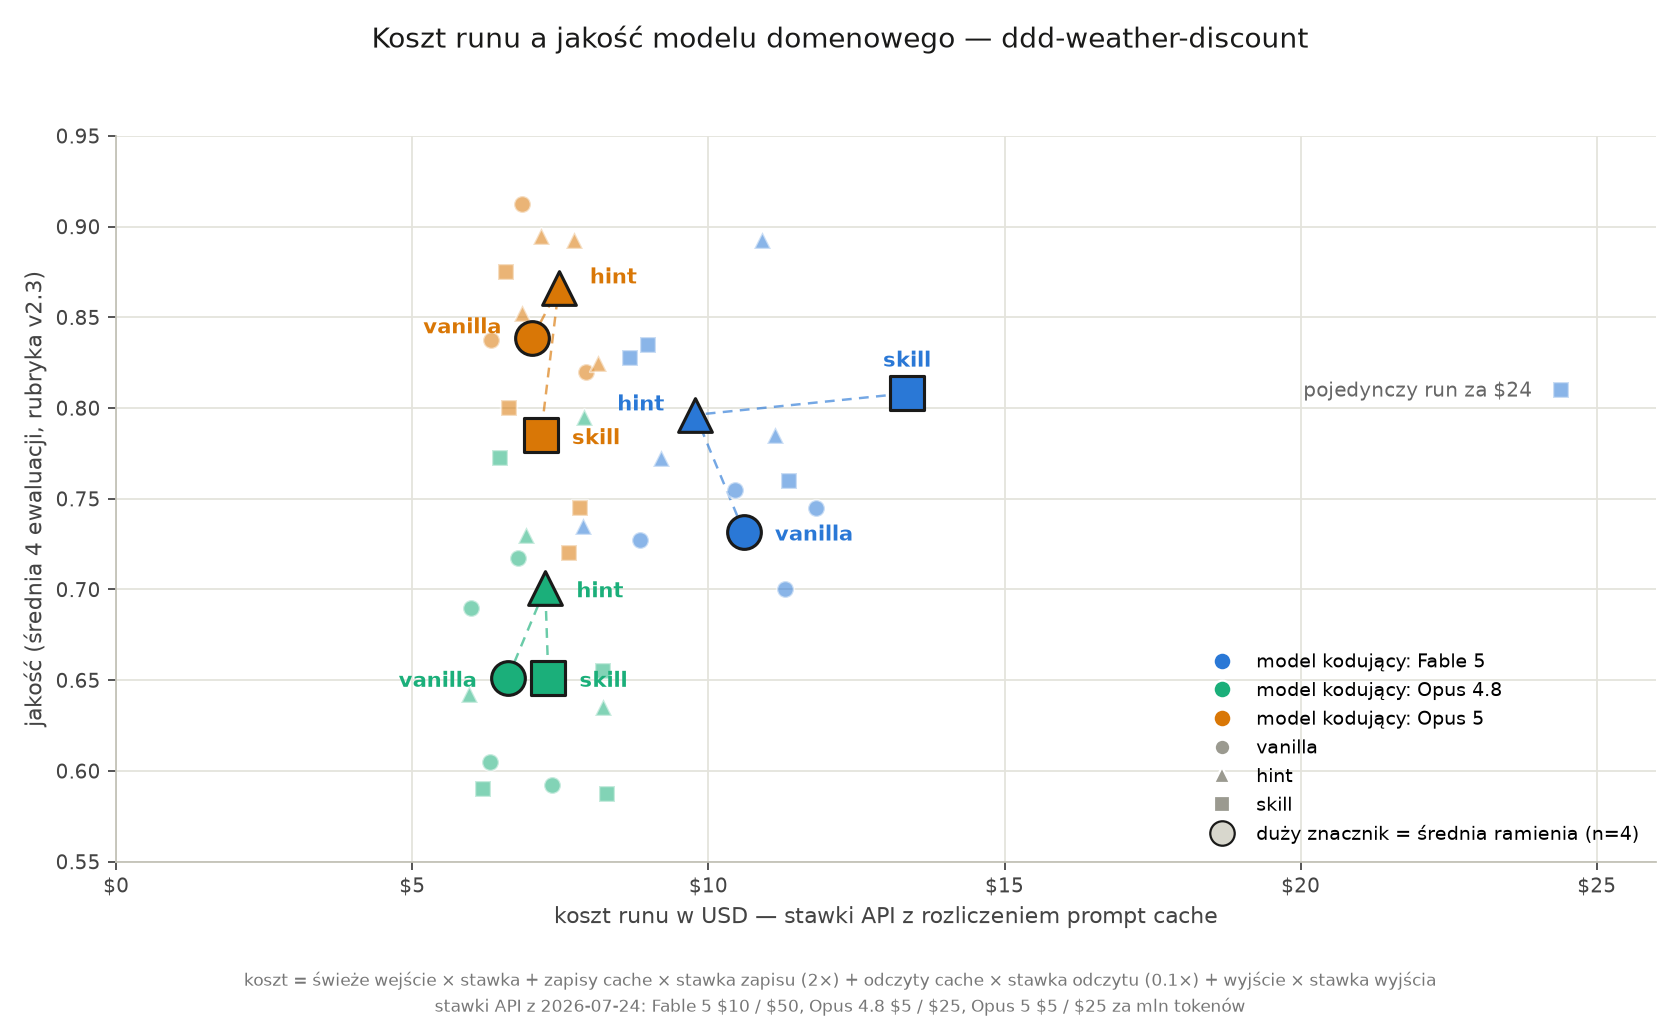
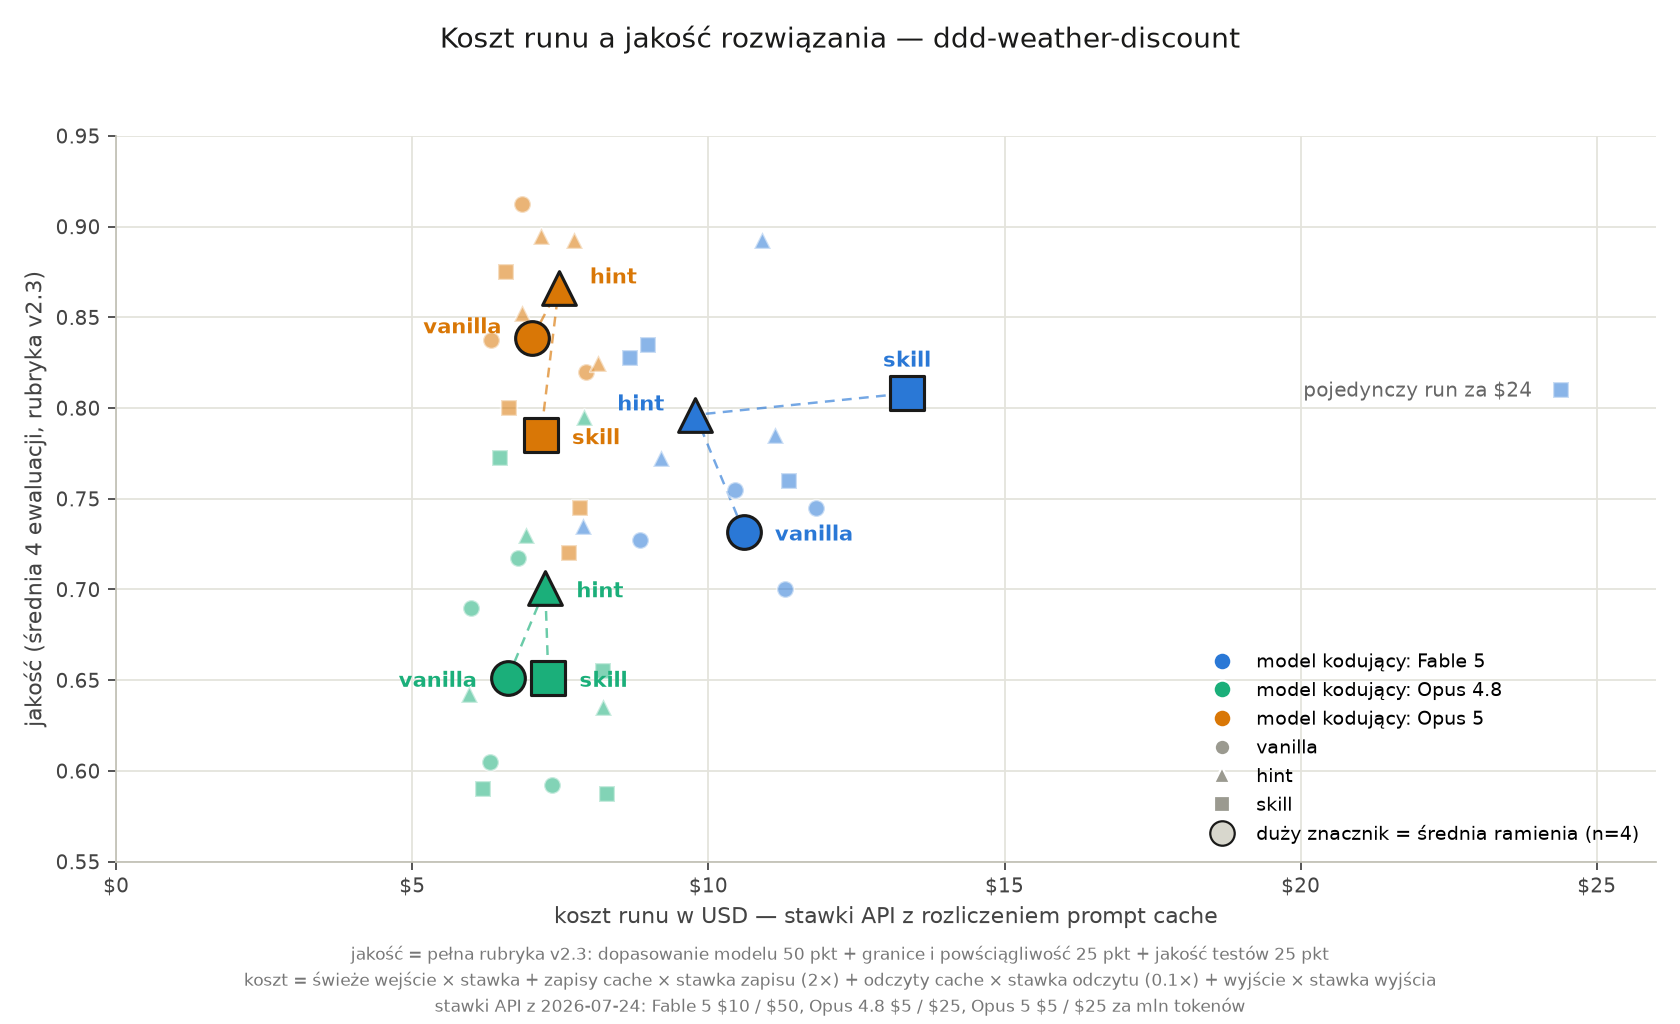
viz: title said domain-model quality while the axis is the full-rubric composite
Retitle to 'solution quality' and state the composition in the footnote
(model fit 50 + boundaries & restraint 25 + test quality 25, rubric v2.3).

Claude-Session: https://claude.ai/code/session_0112rjaT9dWVPXhqm2FCQQPh

Changed region(s): [[0.2167, 0.9062, 0.7738, 0.9375], [0.2167, 0.0312, 0.7738, 0.0625]]

diff --git a/examples/ddd-architectural-challenges/cost_quality_plane.py b/examples/ddd-architectural-challenges/cost_quality_plane.py
@@ -40,7 +40,7 @@ INK = "#1a1a19"
 
 TEXT = {
     "pl": {
-        "title": "Koszt runu a jakość modelu domenowego — ddd-weather-discount",
+        "title": "Koszt runu a jakość rozwiązania — ddd-weather-discount",
         "xlabel": "koszt runu w USD — stawki API z rozliczeniem prompt cache",
         "ylabel": "jakość (średnia 4 ewaluacji, rubryka v2.3)",
         "coder": "model kodujący",
@@ -48,6 +48,7 @@ TEXT = {
         "outlier": "pojedynczy run za ${cost:.0f}",
         # \$ keeps matplotlib from treating $...$ pairs as mathtext
         "footnote": (
+            "jakość = pełna rubryka v2.3: dopasowanie modelu 50 pkt + granice i powściągliwość 25 pkt + jakość testów 25 pkt\n"
             "koszt = świeże wejście × stawka + zapisy cache × stawka zapisu (2×) "
             "+ odczyty cache × stawka odczytu (0.1×) + wyjście × stawka wyjścia\n"
             "stawki API z {as_of}: Fable 5 \\${fi:.0f} / \\${fo:.0f}, "
@@ -56,13 +57,14 @@ TEXT = {
         "out": "cost_quality_plane.png",
     },
     "en": {
-        "title": "Run cost vs domain-model quality — ddd-weather-discount",
+        "title": "Run cost vs solution quality — ddd-weather-discount",
         "xlabel": "run cost in USD — API rates with prompt caching",
         "ylabel": "quality (mean of 4 evaluations, rubric v2.3)",
         "coder": "coding model",
         "mean": "large marker = arm mean (n=4)",
         "outlier": "a single ${cost:.0f} run",
         "footnote": (
+            "quality = the full v2.3 rubric: model fit 50 pts + boundaries & restraint 25 pts + test quality 25 pts\n"
             "cost = fresh input × input rate + cache writes × write rate (2×) "
             "+ cache reads × read rate (0.1×) + output × output rate\n"
             "API rates as of {as_of}: Fable 5 \\${fi:.0f} / \\${fo:.0f}, "
